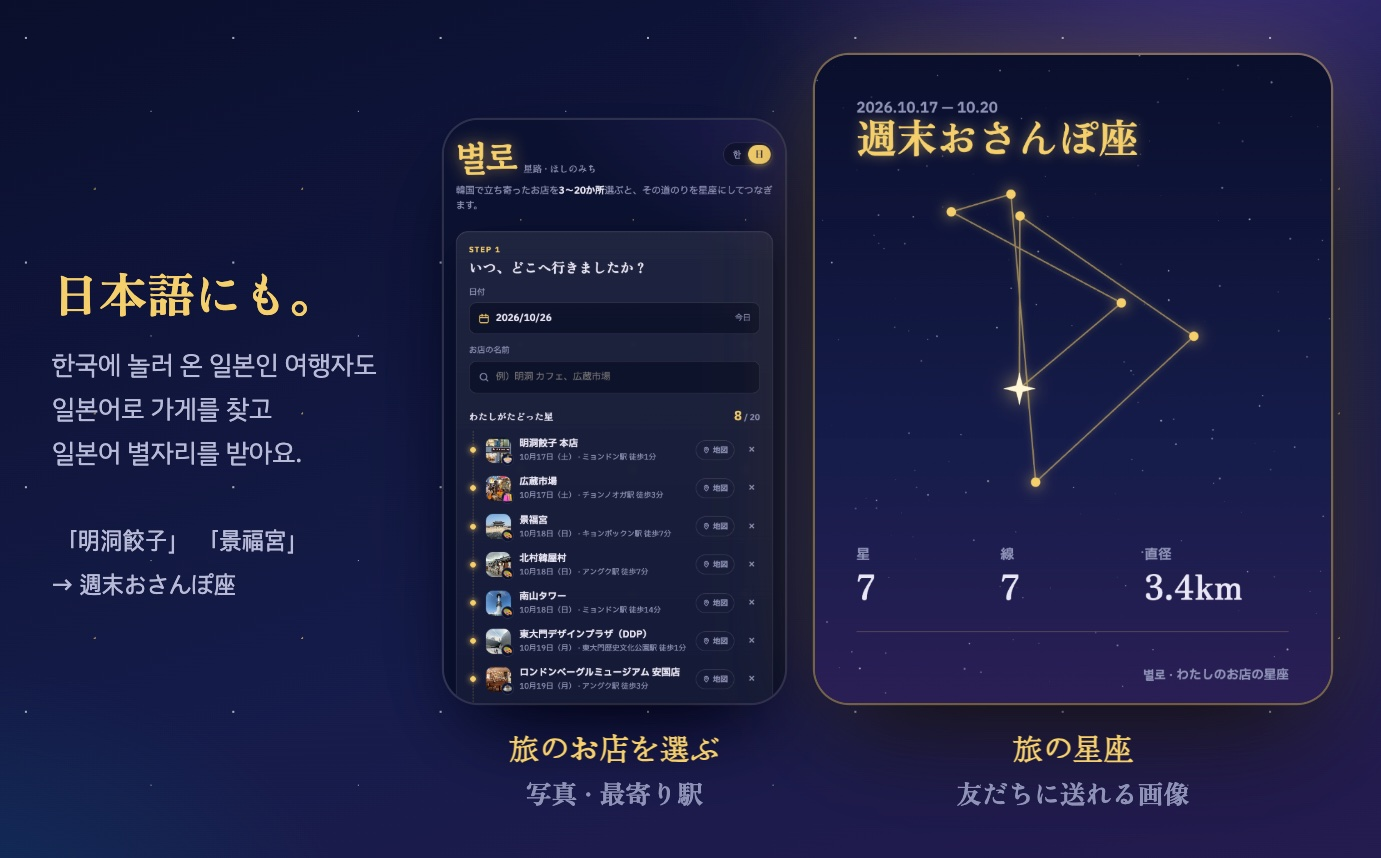
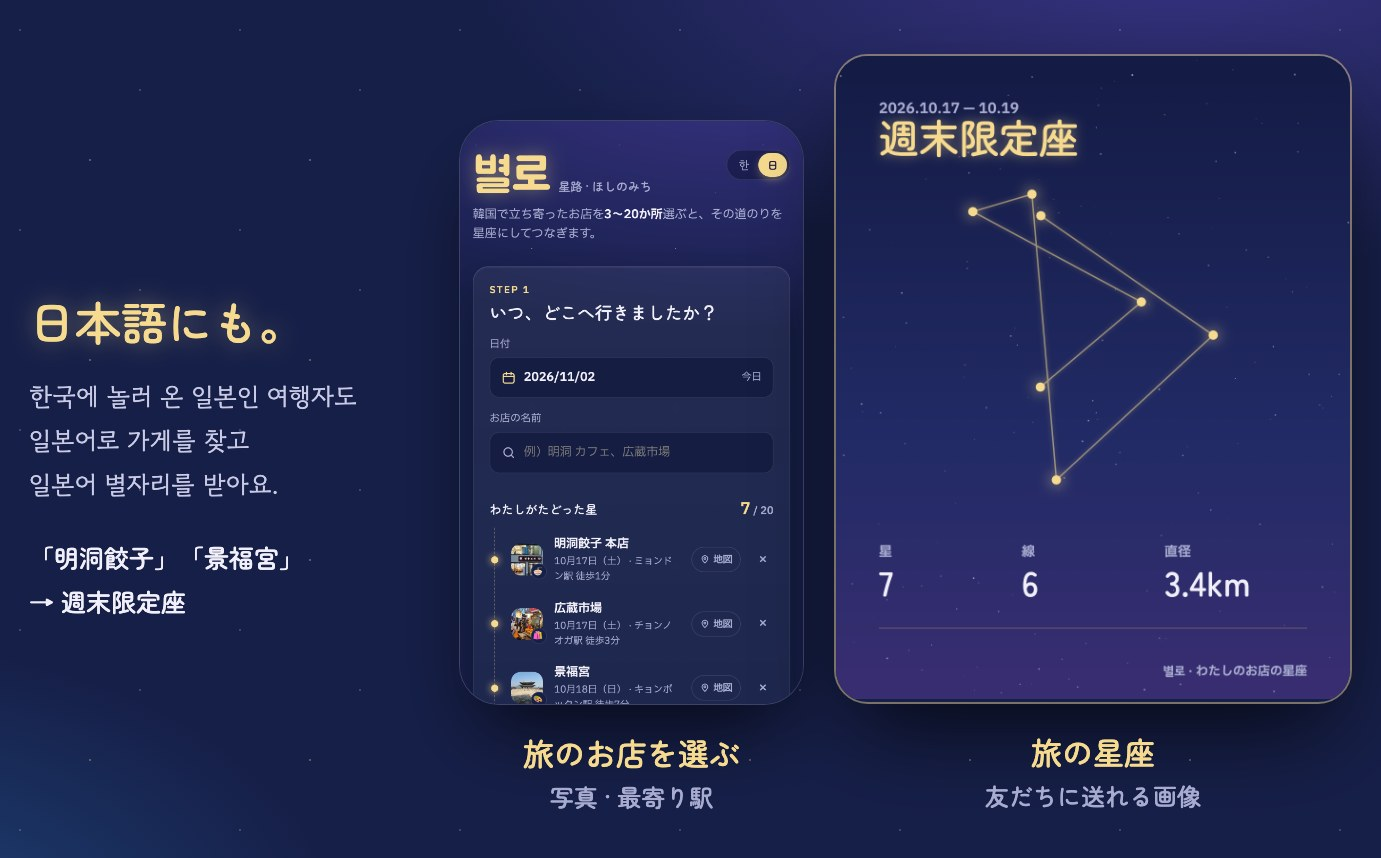
Docs: README 쇼케이스·OG 이미지를 새 글꼴과 색감으로 교체
- 한국어·일본어 쇼케이스 이미지 새로 캡처 (고운돋움·주아·Zen Maru Gothic, 밝아진 배경색 반영)
- `og.png` 로고 옆 부제를 고운돋움으로, 배경·금색을 새 색감으로 맞춰 다시 제작
- README 하단에 사용 글꼴 목록 추가

diff --git a/README.md b/README.md
@@ -65,7 +65,8 @@
 
 <br>
 
-Vanilla JS · Kakao Local · Google Places · OpenStreetMap · GitHub Pages
+Vanilla JS · Kakao Local · Google Places · OpenStreetMap · GitHub Pages<br>
+Jua · Gowun Dodum · IBM Plex Sans KR · Zen Maru Gothic
 
 </sub>
 
